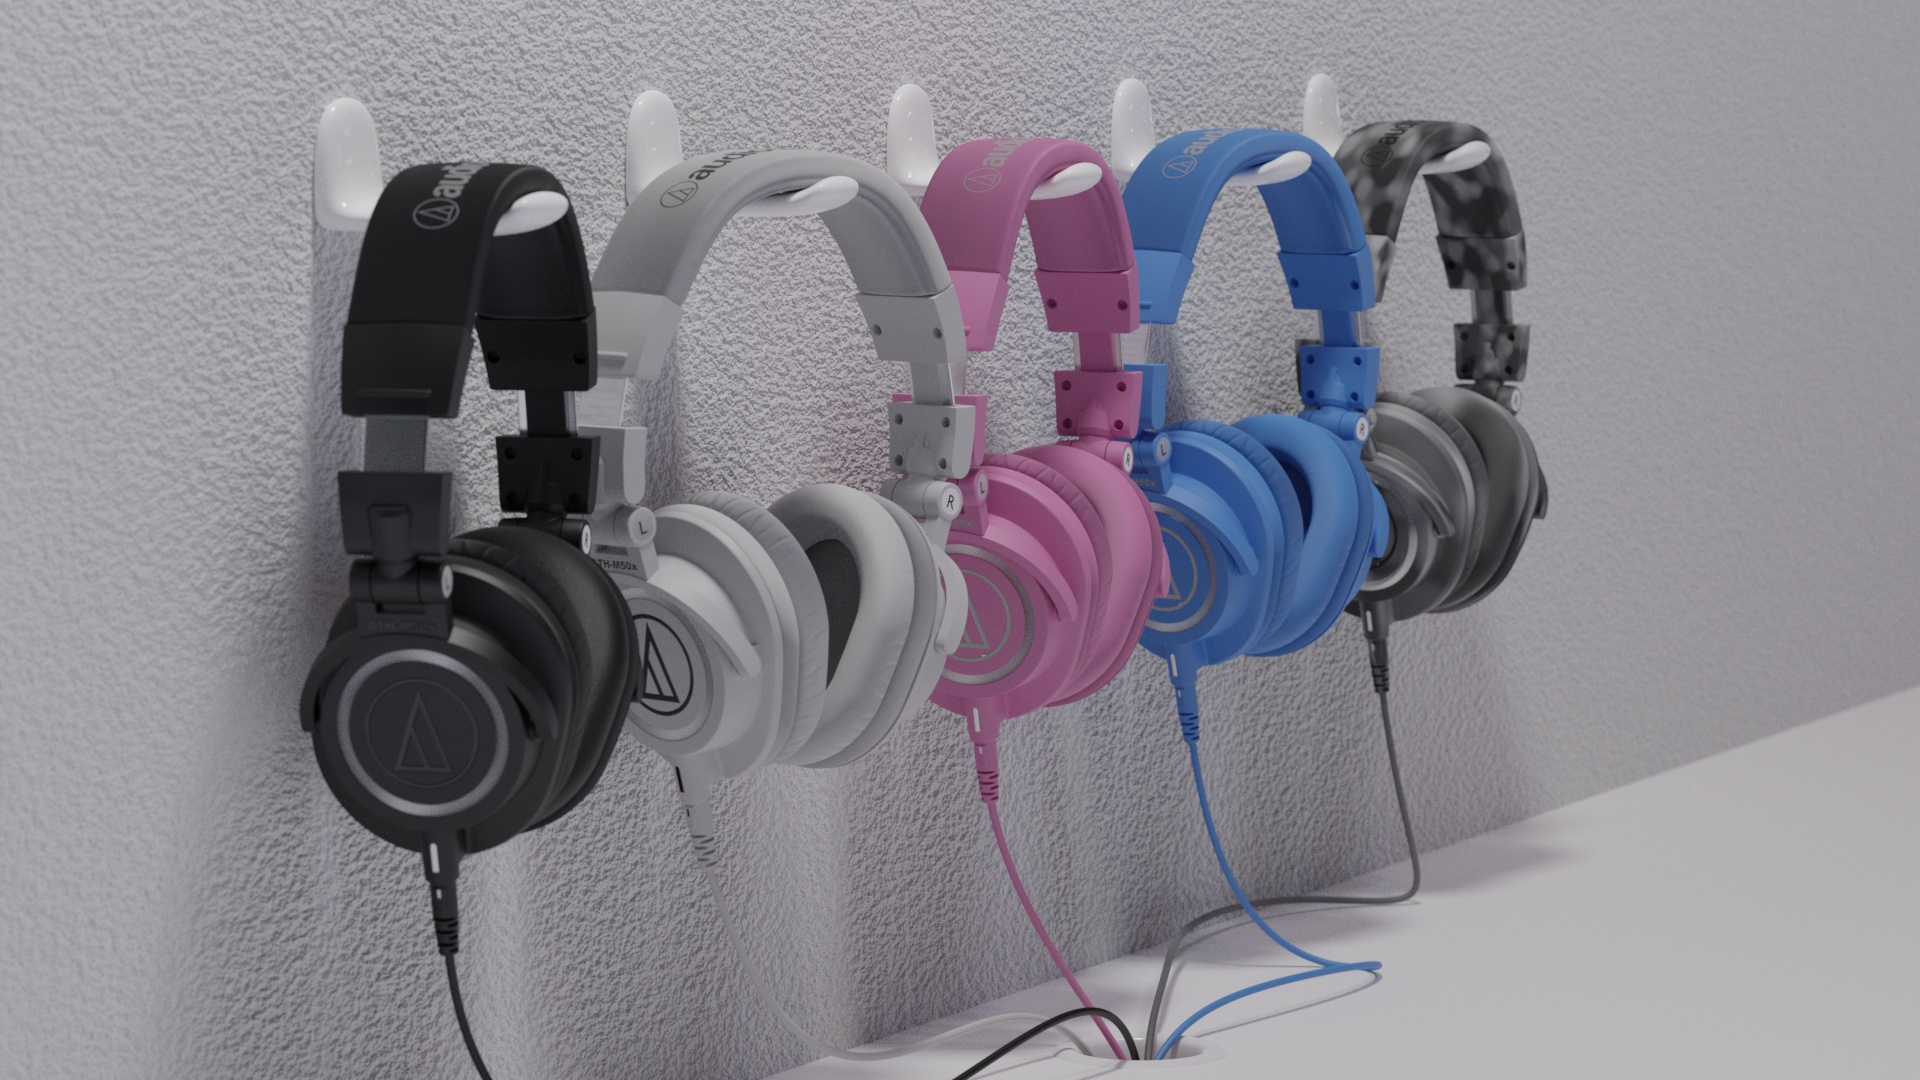
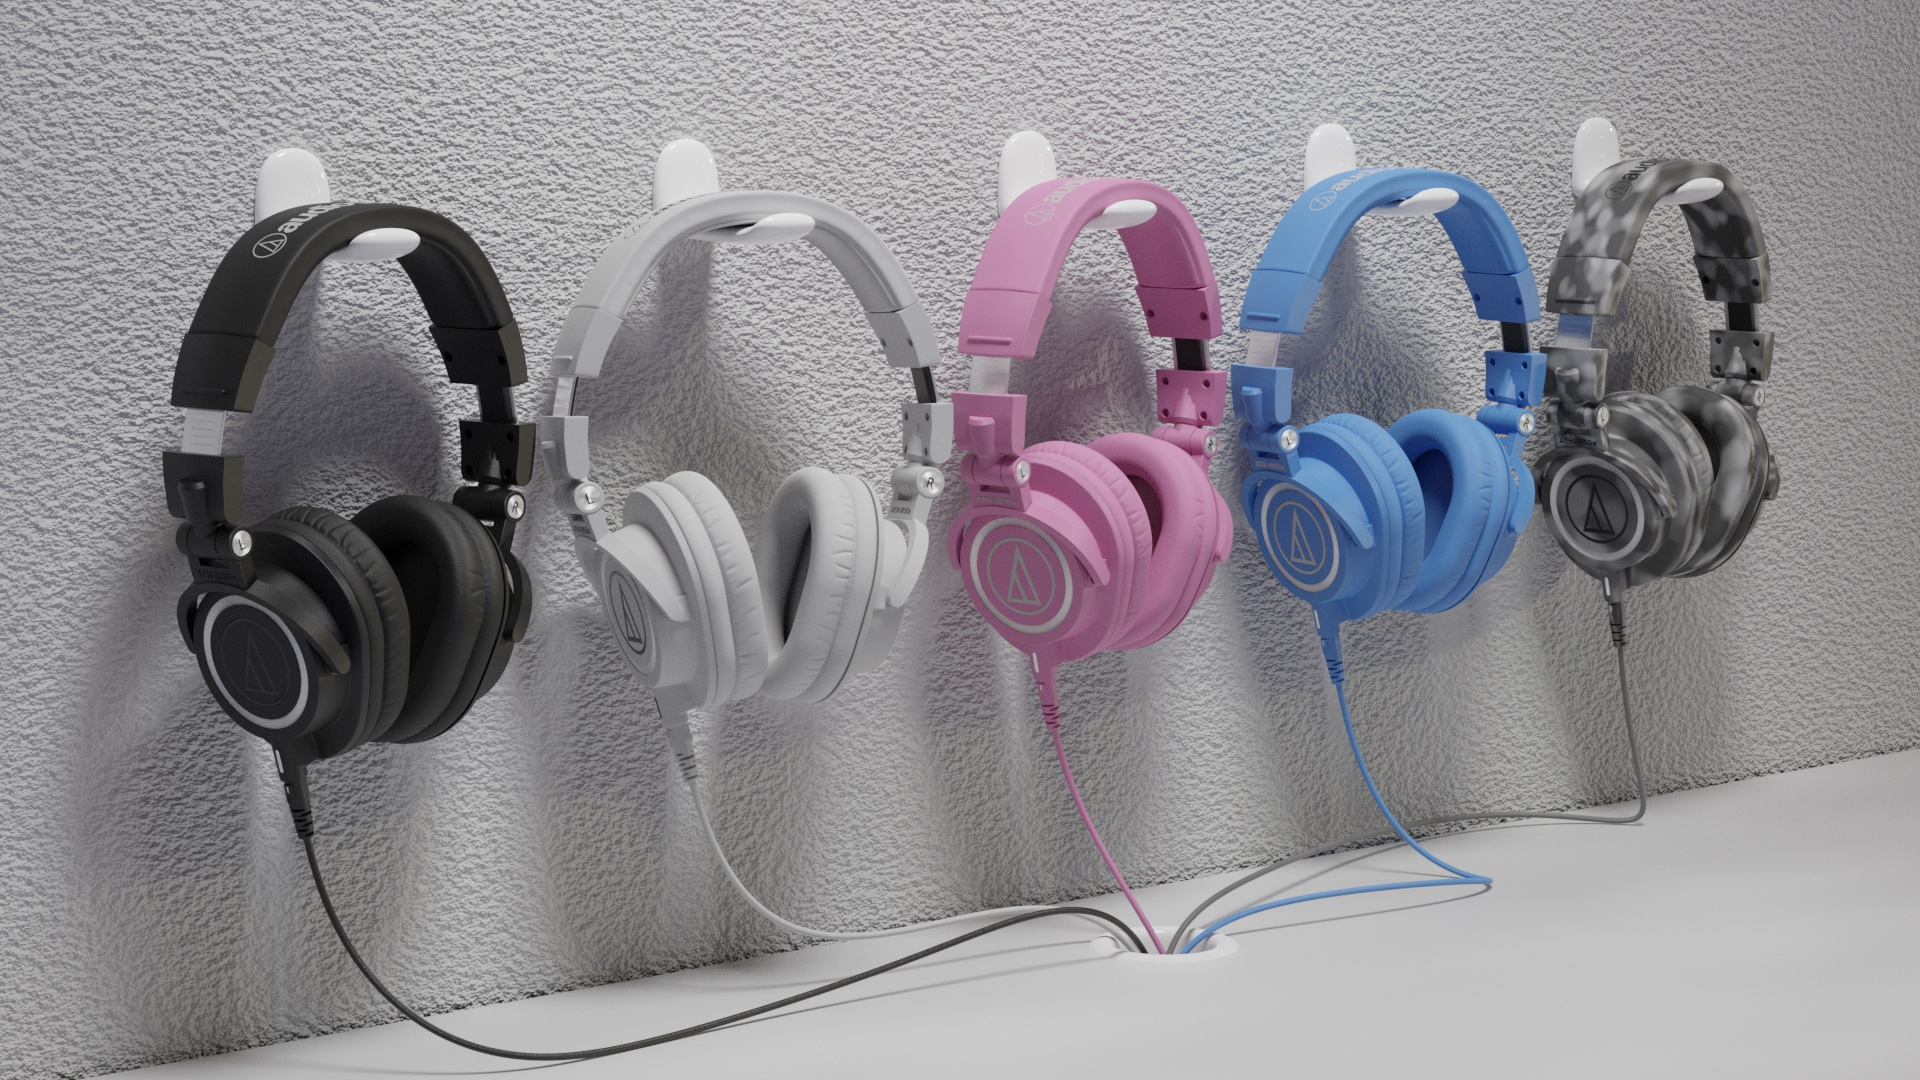
Changed couple images

diff --git a/portfolio/BlenderProjects.html b/portfolio/BlenderProjects.html
@@ -173,8 +173,7 @@
                                         I bought these headphones recently, they are pretty good, and then I felt I wanted to model them too.<br>
                                         The modeling, texturing and rendering took me 4 days.<br>
                                         The different color variations were pretty quick to do.<br>
-                                        The background used in the render is a free-to-use image from a site I've long forgotten, it's a nice 360x180 degree hdr image which works as a light and reflection source.<br> 
-
+                                        
 
                     
                                     </p>
@@ -187,8 +186,7 @@
                                         Ostin nämä kuulokkeet tässä vähän aikaa sitten ja ne ovat melko hyvät. Sitten tuli mieleen että jos vaikka tekisin niistä 3d-mallin.<br>
                                         Mallin ja tekstuurien tekeminen sekä renderöinti vei yhteensä 4 päivää.<br>
                                         Eri värivariaatiot oli melko nopeita tehdä.<br>
-                                        Taustakuva renderöinnissä on vapaasti käytettävissä oleva kuva joka on ladattu sivustolta jonka olen unohtanut aikaa sitten. Kuva on 360x180 astetta kattava hdr kuva joka toimii valonlähteenä ja antaa osille heijastuksia.<br> 
-
+                                        
                     
                                     </p>
                                 </div>

diff --git a/index.html b/index.html
@@ -35,6 +35,7 @@
   </noscript>
 
   
+  
     
        <header class="fixed-top" id="header">
 
